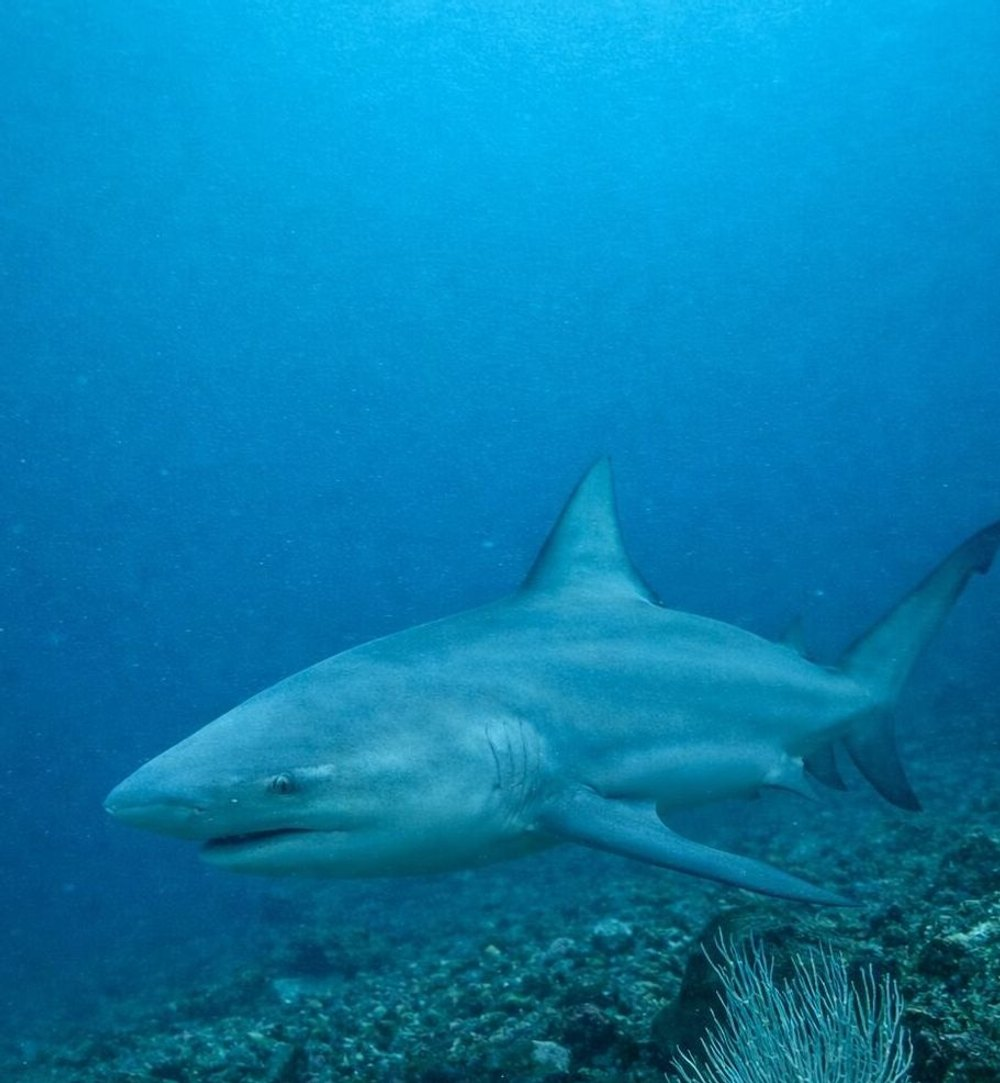
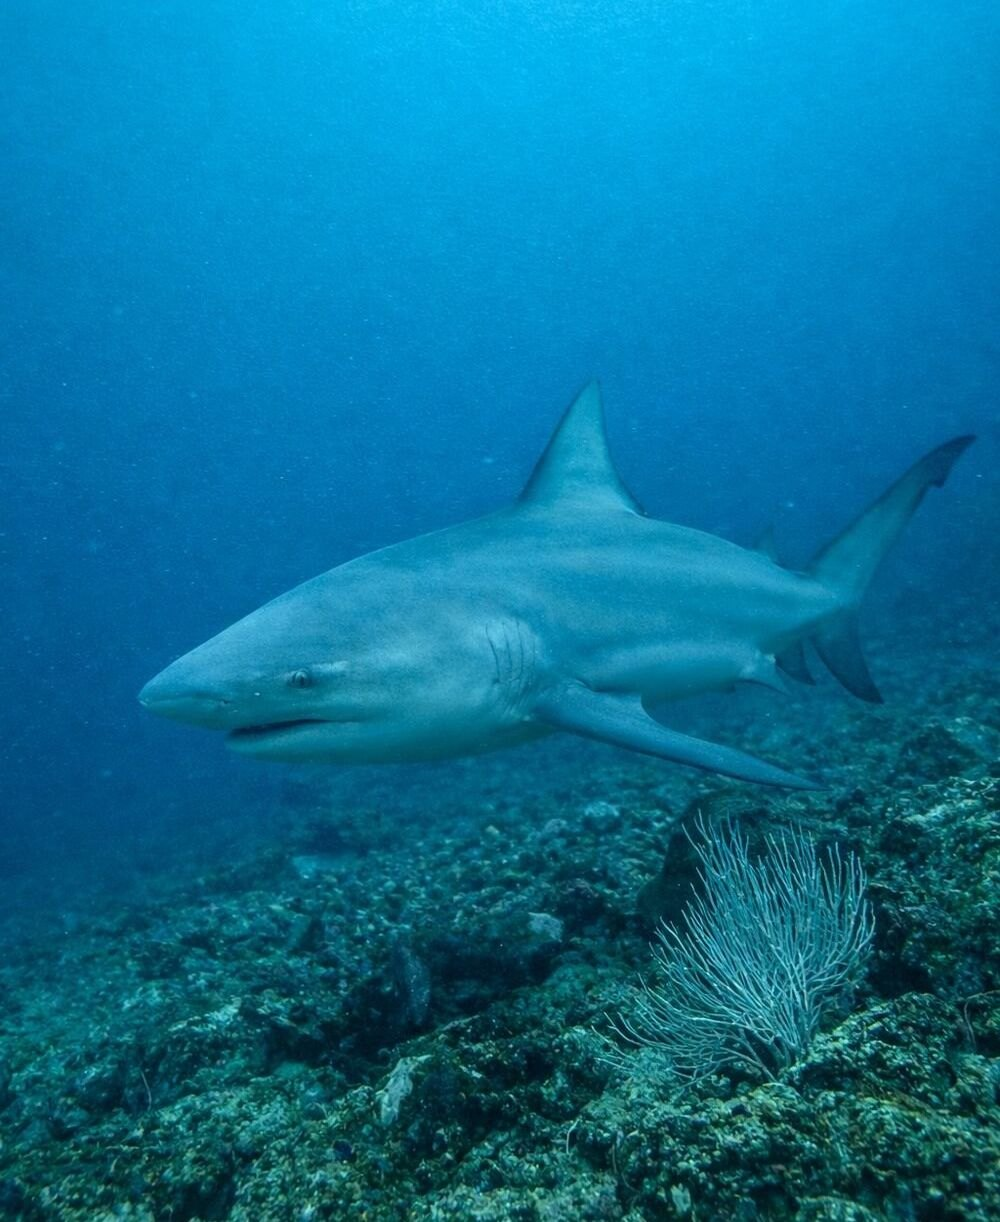
Raise bull shark higher in frame, further increase mobile experience card text size

diff --git a/fr/index.html b/fr/index.html
@@ -211,7 +211,7 @@
       </a>
       <a class="exp-card" href="experiences.html#bat" data-reveal>
         <span class="tag season" data-i18n="label.season">Mai–Nov</span>
-        <picture><source type="image/webp" srcset="../images/bull-shark-card.webp?v=3 900w, ../images/bull-shark.webp?v=3 1000w" sizes="(min-width:981px) 398px, (min-width:561px) 46vw, 92vw"><img loading="lazy" src="../images/bull-shark.jpg?v=4" srcset="../images/bull-shark-card.jpg?v=3 900w, ../images/bull-shark.jpg?v=4 1000w" sizes="(min-width:981px) 398px, (min-width:561px) 46vw, 92vw" width="1000" height="1083" alt="Bull shark at the Bat Islands, Costa Rica (advanced scuba dive)"></picture>
+        <picture><source type="image/webp" srcset="../images/bull-shark-card.webp?v=5 900w, ../images/bull-shark.webp?v=5 1000w" sizes="(min-width:981px) 398px, (min-width:561px) 46vw, 92vw"><img loading="lazy" src="../images/bull-shark.jpg?v=6" srcset="../images/bull-shark-card.jpg?v=5 900w, ../images/bull-shark.jpg?v=6 1000w" sizes="(min-width:981px) 398px, (min-width:561px) 46vw, 92vw" width="1000" height="1222" alt="Bull shark at the Bat Islands, Costa Rica (advanced scuba dive)"></picture>
         <div class="exp-card__body"><h3 data-i18n="card.bat.t">Fun Dive · Bat Islands</h3><p data-i18n="card.bat.d">Bat Islands (Islas Murciélagos), au large du parc national Santa Rosa (Guanacaste), offrent l’une des plongées les plus mythiques du Costa Rica. Accessibles de mai à novembre, elles permettent aux plongeurs expérimentés d’observer les impressionnants requins bouledogues dans leur habitat naturel. Une expérience intense au cœur d’une vie marine exceptionnelle.</p><span class="price" data-i18n="price.contact">Nous contacter</span></div>
       </a>
       <a class="exp-card" href="experiences.html#snorkel" data-reveal data-delay="1">
@@ -288,7 +288,7 @@
       </button>
       <div class="gallery-track">
       <figure><picture><source type="image/webp" srcset="../images/g4.webp?v=1"><img loading="lazy" src="../images/g4.jpg?v=4" width="1500" height="844" alt="Whale shark swimming off the coast of Costa Rica"></picture><span class="zoom"><svg viewBox="0 0 24 24" fill="none" stroke="currentColor" stroke-width="2"><circle cx="11" cy="11" r="7"/><path d="M21 21l-4-4M11 8v6M8 11h6"/></svg></span></figure>
-      <figure><picture><source type="image/webp" srcset="../images/bull-shark.webp?v=3"><img loading="lazy" src="../images/bull-shark.jpg?v=4" width="1000" height="1083" alt="Bull shark at the Bat Islands"></picture><span class="zoom"><svg viewBox="0 0 24 24" fill="none" stroke="currentColor" stroke-width="2"><circle cx="11" cy="11" r="7"/><path d="M21 21l-4-4M11 8v6M8 11h6"/></svg></span></figure>
+      <figure><picture><source type="image/webp" srcset="../images/bull-shark.webp?v=5"><img loading="lazy" src="../images/bull-shark.jpg?v=6" width="1000" height="1222" alt="Bull shark at the Bat Islands"></picture><span class="zoom"><svg viewBox="0 0 24 24" fill="none" stroke="currentColor" stroke-width="2"><circle cx="11" cy="11" r="7"/><path d="M21 21l-4-4M11 8v6M8 11h6"/></svg></span></figure>
       <figure><picture><source type="image/webp" srcset="../images/g1.webp?v=1"><img loading="lazy" src="../images/g1.jpg?v=4" width="1500" height="844" alt="Spotted eagle ray gliding over the reef near Tamarindo"></picture><span class="zoom"><svg viewBox="0 0 24 24" fill="none" stroke="currentColor" stroke-width="2"><circle cx="11" cy="11" r="7"/><path d="M21 21l-4-4M11 8v6M8 11h6"/></svg></span></figure>
       <figure><picture><source type="image/webp" srcset="../images/g2.webp?v=1"><img loading="lazy" src="../images/g2.jpg?v=2" width="1100" height="1955" alt="Giant manta ray with divers, Catalina Islands"></picture><span class="zoom"><svg viewBox="0 0 24 24" fill="none" stroke="currentColor" stroke-width="2"><circle cx="11" cy="11" r="7"/><path d="M21 21l-4-4M11 8v6M8 11h6"/></svg></span></figure>
       <figure><picture><source type="image/webp" srcset="../images/g3.webp?v=1"><img loading="lazy" src="../images/g3.jpg?v=4" width="1500" height="935" alt="Diver and nurse shark on a reef in Costa Rica"></picture><span class="zoom"><svg viewBox="0 0 24 24" fill="none" stroke="currentColor" stroke-width="2"><circle cx="11" cy="11" r="7"/><path d="M21 21l-4-4M11 8v6M8 11h6"/></svg></span></figure>

diff --git a/es/index.html b/es/index.html
@@ -211,7 +211,7 @@
       </a>
       <a class="exp-card" href="experiences.html#bat" data-reveal>
         <span class="tag season" data-i18n="label.season">Mayo–Nov</span>
-        <picture><source type="image/webp" srcset="../images/bull-shark-card.webp?v=3 900w, ../images/bull-shark.webp?v=3 1000w" sizes="(min-width:981px) 398px, (min-width:561px) 46vw, 92vw"><img loading="lazy" src="../images/bull-shark.jpg?v=4" srcset="../images/bull-shark-card.jpg?v=3 900w, ../images/bull-shark.jpg?v=4 1000w" sizes="(min-width:981px) 398px, (min-width:561px) 46vw, 92vw" width="1000" height="1083" alt="Bull shark at the Bat Islands, Costa Rica (advanced scuba dive)"></picture>
+        <picture><source type="image/webp" srcset="../images/bull-shark-card.webp?v=5 900w, ../images/bull-shark.webp?v=5 1000w" sizes="(min-width:981px) 398px, (min-width:561px) 46vw, 92vw"><img loading="lazy" src="../images/bull-shark.jpg?v=6" srcset="../images/bull-shark-card.jpg?v=5 900w, ../images/bull-shark.jpg?v=6 1000w" sizes="(min-width:981px) 398px, (min-width:561px) 46vw, 92vw" width="1000" height="1222" alt="Bull shark at the Bat Islands, Costa Rica (advanced scuba dive)"></picture>
         <div class="exp-card__body"><h3 data-i18n="card.bat.t">Fun Dive · Bat Islands</h3><p data-i18n="card.bat.d">Las Islas Murciélagos, frente al Parque Nacional Santa Rosa (Guanacaste), ofrecen una de las inmersiones más míticas de Costa Rica. Accesibles de mayo a noviembre, permiten a los buzos experimentados observar los impresionantes tiburones toro en su hábitat natural. Una experiencia intensa en el corazón de una vida marina excepcional.</p><span class="price" data-i18n="price.contact">Contáctanos</span></div>
       </a>
       <a class="exp-card" href="experiences.html#snorkel" data-reveal data-delay="1">
@@ -288,7 +288,7 @@
       </button>
       <div class="gallery-track">
       <figure><picture><source type="image/webp" srcset="../images/g4.webp?v=1"><img loading="lazy" src="../images/g4.jpg?v=4" width="1500" height="844" alt="Whale shark swimming off the coast of Costa Rica"></picture><span class="zoom"><svg viewBox="0 0 24 24" fill="none" stroke="currentColor" stroke-width="2"><circle cx="11" cy="11" r="7"/><path d="M21 21l-4-4M11 8v6M8 11h6"/></svg></span></figure>
-      <figure><picture><source type="image/webp" srcset="../images/bull-shark.webp?v=3"><img loading="lazy" src="../images/bull-shark.jpg?v=4" width="1000" height="1083" alt="Bull shark at the Bat Islands"></picture><span class="zoom"><svg viewBox="0 0 24 24" fill="none" stroke="currentColor" stroke-width="2"><circle cx="11" cy="11" r="7"/><path d="M21 21l-4-4M11 8v6M8 11h6"/></svg></span></figure>
+      <figure><picture><source type="image/webp" srcset="../images/bull-shark.webp?v=5"><img loading="lazy" src="../images/bull-shark.jpg?v=6" width="1000" height="1222" alt="Bull shark at the Bat Islands"></picture><span class="zoom"><svg viewBox="0 0 24 24" fill="none" stroke="currentColor" stroke-width="2"><circle cx="11" cy="11" r="7"/><path d="M21 21l-4-4M11 8v6M8 11h6"/></svg></span></figure>
       <figure><picture><source type="image/webp" srcset="../images/g1.webp?v=1"><img loading="lazy" src="../images/g1.jpg?v=4" width="1500" height="844" alt="Spotted eagle ray gliding over the reef near Tamarindo"></picture><span class="zoom"><svg viewBox="0 0 24 24" fill="none" stroke="currentColor" stroke-width="2"><circle cx="11" cy="11" r="7"/><path d="M21 21l-4-4M11 8v6M8 11h6"/></svg></span></figure>
       <figure><picture><source type="image/webp" srcset="../images/g2.webp?v=1"><img loading="lazy" src="../images/g2.jpg?v=2" width="1100" height="1955" alt="Giant manta ray with divers, Catalina Islands"></picture><span class="zoom"><svg viewBox="0 0 24 24" fill="none" stroke="currentColor" stroke-width="2"><circle cx="11" cy="11" r="7"/><path d="M21 21l-4-4M11 8v6M8 11h6"/></svg></span></figure>
       <figure><picture><source type="image/webp" srcset="../images/g3.webp?v=1"><img loading="lazy" src="../images/g3.jpg?v=4" width="1500" height="935" alt="Diver and nurse shark on a reef in Costa Rica"></picture><span class="zoom"><svg viewBox="0 0 24 24" fill="none" stroke="currentColor" stroke-width="2"><circle cx="11" cy="11" r="7"/><path d="M21 21l-4-4M11 8v6M8 11h6"/></svg></span></figure>

diff --git a/index.html b/index.html
@@ -211,7 +211,7 @@
       </a>
       <a class="exp-card" href="experiences.html#bat" data-reveal>
         <span class="tag season" data-i18n="label.season">May–Nov</span>
-        <picture><source type="image/webp" srcset="images/bull-shark-card.webp?v=3 900w, images/bull-shark.webp?v=3 1000w" sizes="(min-width:981px) 398px, (min-width:561px) 46vw, 92vw"><img loading="lazy" src="images/bull-shark.jpg?v=4" srcset="images/bull-shark-card.jpg?v=3 900w, images/bull-shark.jpg?v=4 1000w" sizes="(min-width:981px) 398px, (min-width:561px) 46vw, 92vw" width="1000" height="1083" alt="Bull shark at the Bat Islands, Costa Rica: advanced scuba dive"></picture>
+        <picture><source type="image/webp" srcset="images/bull-shark-card.webp?v=5 900w, images/bull-shark.webp?v=5 1000w" sizes="(min-width:981px) 398px, (min-width:561px) 46vw, 92vw"><img loading="lazy" src="images/bull-shark.jpg?v=6" srcset="images/bull-shark-card.jpg?v=5 900w, images/bull-shark.jpg?v=6 1000w" sizes="(min-width:981px) 398px, (min-width:561px) 46vw, 92vw" width="1000" height="1222" alt="Bull shark at the Bat Islands, Costa Rica: advanced scuba dive"></picture>
         <div class="exp-card__body"><h3 data-i18n="card.bat.t">Fun Dive · Bat Islands</h3><p data-i18n="card.bat.d"></p><span class="price" data-i18n="price.contact">Contact us</span></div>
       </a>
       <a class="exp-card" href="experiences.html#snorkel" data-reveal data-delay="1">
@@ -288,7 +288,7 @@
       </button>
       <div class="gallery-track">
       <figure><picture><source type="image/webp" srcset="images/g4.webp?v=1"><img loading="lazy" src="images/g4.jpg?v=4" width="1500" height="844" alt="Whale shark swimming off the coast of Costa Rica"></picture><span class="zoom"><svg viewBox="0 0 24 24" fill="none" stroke="currentColor" stroke-width="2"><circle cx="11" cy="11" r="7"/><path d="M21 21l-4-4M11 8v6M8 11h6"/></svg></span></figure>
-      <figure><picture><source type="image/webp" srcset="images/bull-shark.webp?v=3"><img loading="lazy" src="images/bull-shark.jpg?v=4" width="1000" height="1083" alt="Bull shark at the Bat Islands"></picture><span class="zoom"><svg viewBox="0 0 24 24" fill="none" stroke="currentColor" stroke-width="2"><circle cx="11" cy="11" r="7"/><path d="M21 21l-4-4M11 8v6M8 11h6"/></svg></span></figure>
+      <figure><picture><source type="image/webp" srcset="images/bull-shark.webp?v=5"><img loading="lazy" src="images/bull-shark.jpg?v=6" width="1000" height="1222" alt="Bull shark at the Bat Islands"></picture><span class="zoom"><svg viewBox="0 0 24 24" fill="none" stroke="currentColor" stroke-width="2"><circle cx="11" cy="11" r="7"/><path d="M21 21l-4-4M11 8v6M8 11h6"/></svg></span></figure>
       <figure><picture><source type="image/webp" srcset="images/g1.webp?v=1"><img loading="lazy" src="images/g1.jpg?v=4" width="1500" height="844" alt="Spotted eagle ray gliding over the reef near Tamarindo"></picture><span class="zoom"><svg viewBox="0 0 24 24" fill="none" stroke="currentColor" stroke-width="2"><circle cx="11" cy="11" r="7"/><path d="M21 21l-4-4M11 8v6M8 11h6"/></svg></span></figure>
       <figure><picture><source type="image/webp" srcset="images/g2.webp?v=1"><img loading="lazy" src="images/g2.jpg?v=2" width="1100" height="1955" alt="Giant manta ray with divers, Catalina Islands"></picture><span class="zoom"><svg viewBox="0 0 24 24" fill="none" stroke="currentColor" stroke-width="2"><circle cx="11" cy="11" r="7"/><path d="M21 21l-4-4M11 8v6M8 11h6"/></svg></span></figure>
       <figure><picture><source type="image/webp" srcset="images/g3.webp?v=1"><img loading="lazy" src="images/g3.jpg?v=4" width="1500" height="935" alt="Diver and nurse shark on a reef in Costa Rica"></picture><span class="zoom"><svg viewBox="0 0 24 24" fill="none" stroke="currentColor" stroke-width="2"><circle cx="11" cy="11" r="7"/><path d="M21 21l-4-4M11 8v6M8 11h6"/></svg></span></figure>

diff --git a/css/styles.css b/css/styles.css
@@ -616,13 +616,13 @@ h1,h2,h3,h4{font-family:var(--font-display);line-height:1.1;color:var(--ink);fon
 }
 @media (max-width:560px){
   .exp-grid{grid-template-columns:repeat(2,1fr);gap:.7rem}
-  .exp-card{min-height:255px}
+  .exp-card{min-height:300px}
   .exp-card__body{padding:.9rem}
-  .exp-card h3{font-size:1.12rem;margin-bottom:.3rem;line-height:1.2}
+  .exp-card h3{font-size:1.32rem;margin-bottom:.35rem;line-height:1.2}
   .exp-card p{display:none}
-  .exp-card .price{font-size:.98rem;margin-top:.4rem}
-  .exp-card .price small{font-size:.68rem}
-  .exp-card .tag{font-size:.66rem;padding:.32rem .58rem;top:.6rem;left:.6rem}
+  .exp-card .price{font-size:1.14rem;margin-top:.45rem}
+  .exp-card .price small{font-size:.8rem}
+  .exp-card .tag{font-size:.78rem;padding:.36rem .64rem;top:.6rem;left:.6rem}
 }
 @media (max-width:520px){
   .stats{grid-template-columns:repeat(2,1fr)}
